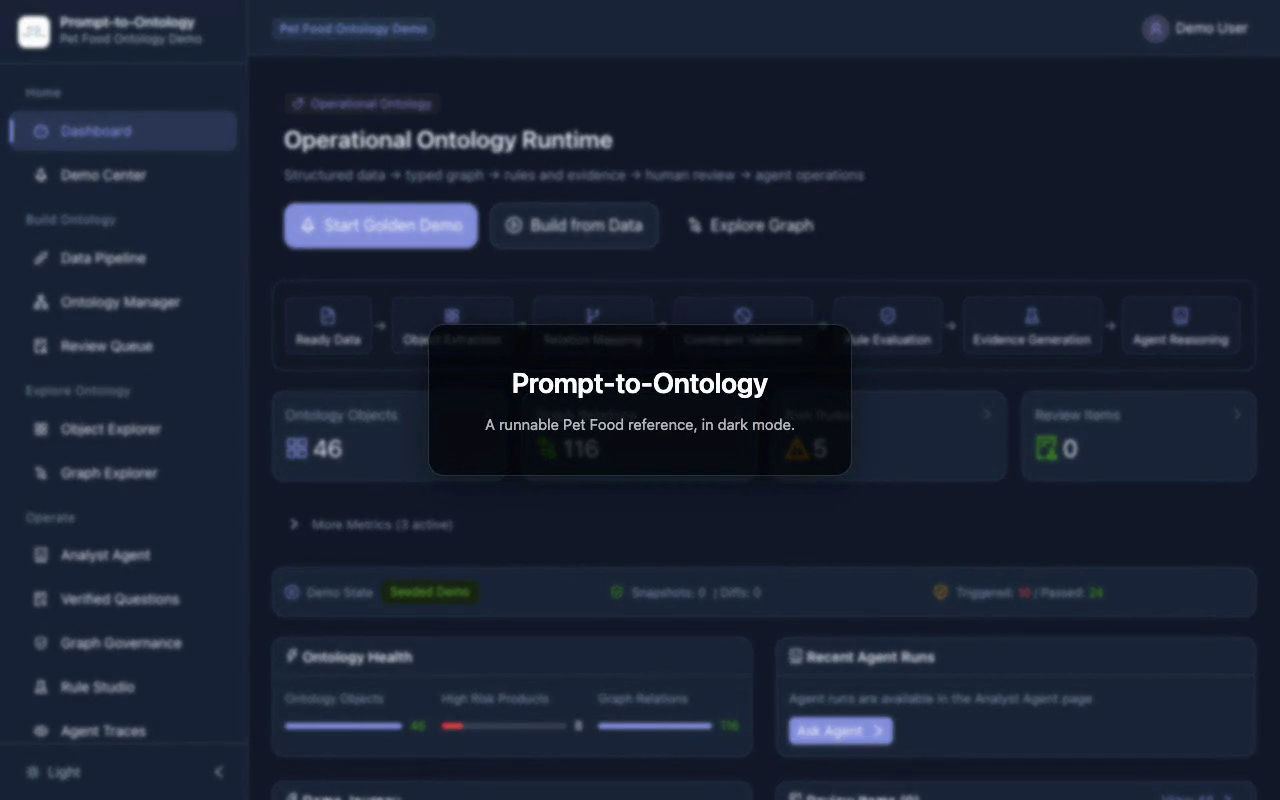
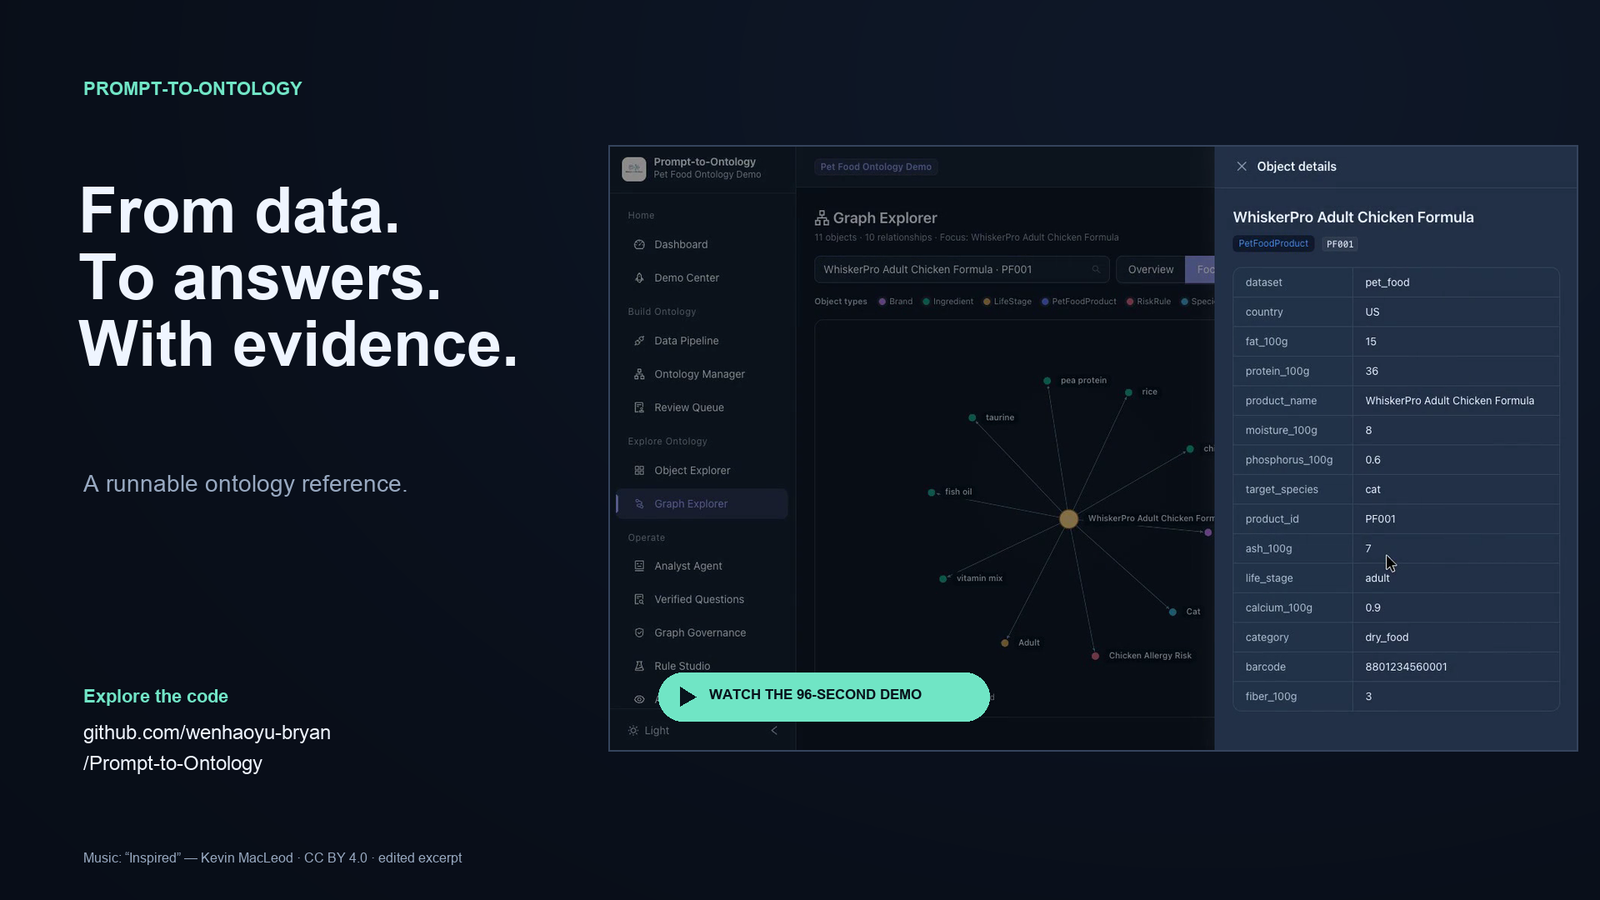
docs: lead with a focused 96-second product demo

diff --git a/media/README.md b/media/README.md
@@ -17,26 +17,29 @@ The PNGs are actual viewport captures, at 1600 × 1000 CSS pixels except the 160
 | `verified-questions.png` | Q03 answer, React Flow path, and cited source records |
 | `graph-evidence.png` | PF001 neighborhood and matching CONTAINS relationship |
 | `analyst-agent.png` | Deterministic answer to “Which products contain chicken?” |
-| `demo-poster.png` | Title card extracted from the current demo video |
+| `demo-poster.png` | Editorial demo cover using a real Graph Explorer frame |
 
 ## Current demo
 
-[MP4 (3:30)](https://github.com/wenhaoyu-bryan/Prompt-to-Ontology/releases/download/v0.3.1/pet-food-dark-demo.mp4) · [English SRT](https://github.com/wenhaoyu-bryan/Prompt-to-Ontology/releases/download/v0.3.1/pet-food-dark-demo.en.srt)
+[Product highlights — 1:36, 1080p](https://github.com/wenhaoyu-bryan/Prompt-to-Ontology/releases/download/v0.3.1/prompt-to-ontology-product-demo.mp4)
 
-The MP4 contains 1280 × 800 H.264 video, AAC narration, English subtitles, and chapter metadata. The narration is a synthetic system voice. It uses no music. Only the completed UI scenes are retained; idle command waits are removed. The large video and subtitle download live as GitHub Release assets, rather than in Git history.
+The current edit opens on Graph Explorer and cuts between source profiling, field mapping, build plans, review, schema inspection, Q03 evidence, rule states, and an ontology-tool query. It removes the long chapter cards, waiting, repeated navigation, and synthetic narration from the earlier tour. Short English editorial captions sit beside the full captured application viewport; no application data is invented. The MP4 has H.264 video, AAC music, and chapter metadata. Text is part of the picture, so it does not need a separate subtitle file.
 
 | Start | Chapter |
 | --- | --- |
-| 0:02 | Prompt-to-Ontology |
-| 0:20 | Profile and map a source |
-| 0:39 | Prepare a build plan |
-| 1:01 | Review before applying |
-| 1:25 | Inspect the ontology contract |
-| 1:46 | Explore the graph |
-| 2:11 | Trace an answer to its source |
-| 2:36 | Inspect executable rules |
-| 2:57 | Ask through ontology tools |
-| 3:15 | Explore the reference |
+| 0:00 | Explore the graph |
+| 0:08 | Profile and map |
+| 0:32 | Review before applying |
+| 0:48 | Inspect the ontology contract |
+| 0:55 | Follow an answer to its source |
+| 1:17 | Ask through ontology tools |
+| 1:32 | Explore the code |
+
+### Music credit
+
+“[Inspired](https://incompetech.com/music/royalty-free/index.html?isrc=USUAN1600022)” — Kevin MacLeod ([incompetech.com](https://incompetech.com/)). Licensed under [Creative Commons Attribution 4.0](https://creativecommons.org/licenses/by/4.0/).
+
+The track was trimmed to a 96-second excerpt, faded in and out, and loudness-normalized. This credit also appears in the video end card and publishing description. The third-party music retains its CC BY 4.0 license; the repository's MIT license does not replace it. The large MP4 is hosted as a release asset, outside Git history.
 
 ## Refresh the captures
 
@@ -47,6 +50,6 @@ The MP4 contains 1280 × 800 H.264 video, AAC narration, English subtitles, and 
 5. Capture Graph Explorer's simplified overview, then exercise all links, object search, and object properties.
 6. Run Q03 in Verified Questions. Capture the answer, evidence path, and source table. Use Explore in graph, capture PF001's neighborhood, and inspect a cited source record.
 7. Inspect the four rule evaluation states. Ask the Analyst Agent “Which products contain chicken?” in deterministic fallback mode and capture the answer and tool name.
-8. Verify dark mode in each scene, inspect the full encoded video for decoding errors, check narration/caption timing, and confirm that every published asset can be downloaded. Update both README files, screenshots, poster, and these chapter times together.
+8. Verify dark mode in each scene, inspect the full encoded video for decoding errors, check caption timing, pacing, music level, and attribution, and confirm that every published asset can be downloaded. Update both README files, screenshots, poster, and these chapter times together.
 
 Q03 reads checked-in CSV files. Graph Explorer separately checks for matching runtime relationships. Schema drafts do not change checked-in definitions or graph data. The video demonstrates those boundaries rather than claiming production readiness or free-form Agent accuracy.

diff --git a/README.md b/README.md
@@ -1,5 +1,11 @@
 # Prompt-to-Ontology
 
+[![Watch the 96-second product demo: from data to traceable graph evidence](media/demo-poster.png)](https://github.com/wenhaoyu-bryan/Prompt-to-Ontology/releases/download/v0.3.1/prompt-to-ontology-product-demo.mp4)
+
+**[Watch the 96-second demo](https://github.com/wenhaoyu-bryan/Prompt-to-Ontology/releases/download/v0.3.1/prompt-to-ontology-product-demo.mp4)** · [Download MP4](https://github.com/wenhaoyu-bryan/Prompt-to-Ontology/releases/download/v0.3.1/prompt-to-ontology-product-demo.mp4) · [中文](README.zh-CN.md)
+
+Explore the graph. Map data. Review changes. Trace answers to evidence. Actual product footage with music and on-screen captions.
+
 [![CI](https://github.com/wenhaoyu-bryan/Prompt-to-Ontology/actions/workflows/ci.yml/badge.svg?branch=main)](https://github.com/wenhaoyu-bryan/Prompt-to-Ontology/actions/workflows/ci.yml)
 
 [Releases](https://github.com/wenhaoyu-bryan/Prompt-to-Ontology/releases) · [Contributing](CONTRIBUTING.md) · [Release process](docs/releasing.md)
@@ -14,14 +20,6 @@
 ![FastAPI](https://img.shields.io/badge/fastapi-009688)
 ![Neo4j](https://img.shields.io/badge/neo4j-5-008CC1)
 ![Docker Compose](https://img.shields.io/badge/docker--compose-2496ED)
-
-<p align="center">
-  <img
-    src="media/dashboard.png"
-    alt="Prompt-to-Ontology operational ontology runtime dashboard"
-    width="100%"
-  >
-</p>
 
 ---
 
@@ -117,6 +115,13 @@ flowchart LR
 
 ## Product Walkthrough
 
+<details>
+<summary>View the runtime dashboard</summary>
+
+![Operational ontology dashboard](media/dashboard.png)
+
+</details>
+
 Follow the Pet Food workflow from source inspection to review, then trace PF001's first ingredient from a sample answer into the runtime graph. The screenshots and video use the same dark UI; click any image to inspect it at full size.
 
 ### 1. Profile and map a source
@@ -184,13 +189,9 @@ This session uses **Deterministic Fallback** and the `find_products_by_ingredien
 
 ---
 
-## Demo Video
+## Demo Notes
 
-[![Pet Food product walkthrough in dark mode](media/demo-poster.png)](https://github.com/wenhaoyu-bryan/Prompt-to-Ontology/releases/download/v0.3.1/pet-food-dark-demo.mp4)
-
-**3:30 · dark UI · English narration and captions.** [Download the MP4](https://github.com/wenhaoyu-bryan/Prompt-to-Ontology/releases/download/v0.3.1/pet-food-dark-demo.mp4) · [English subtitles (SRT)](https://github.com/wenhaoyu-bryan/Prompt-to-Ontology/releases/download/v0.3.1/pet-food-dark-demo.en.srt)
-
-Recorded from the running Pet Food reference: source profiling and mapping → build plan → review and application of one product → ontology contracts → graph exploration → Q03 evidence and source records → rule coverage → deterministic Agent query. The video starts with the seeded sample graph; applying one reviewed item does not imply that the entire plan was applied. English narration uses a synthetic system voice. The MP4 includes chapter markers and an English subtitle track.
+The recording uses the seeded Pet Food reference and applies one reviewed product. Q03 reads checked-in sample files and checks runtime relationships separately; the Agent query uses deterministic fallback mode without an LLM key. [Capture notes, chapters, and music credits](media/README.md).
 
 ---
 
